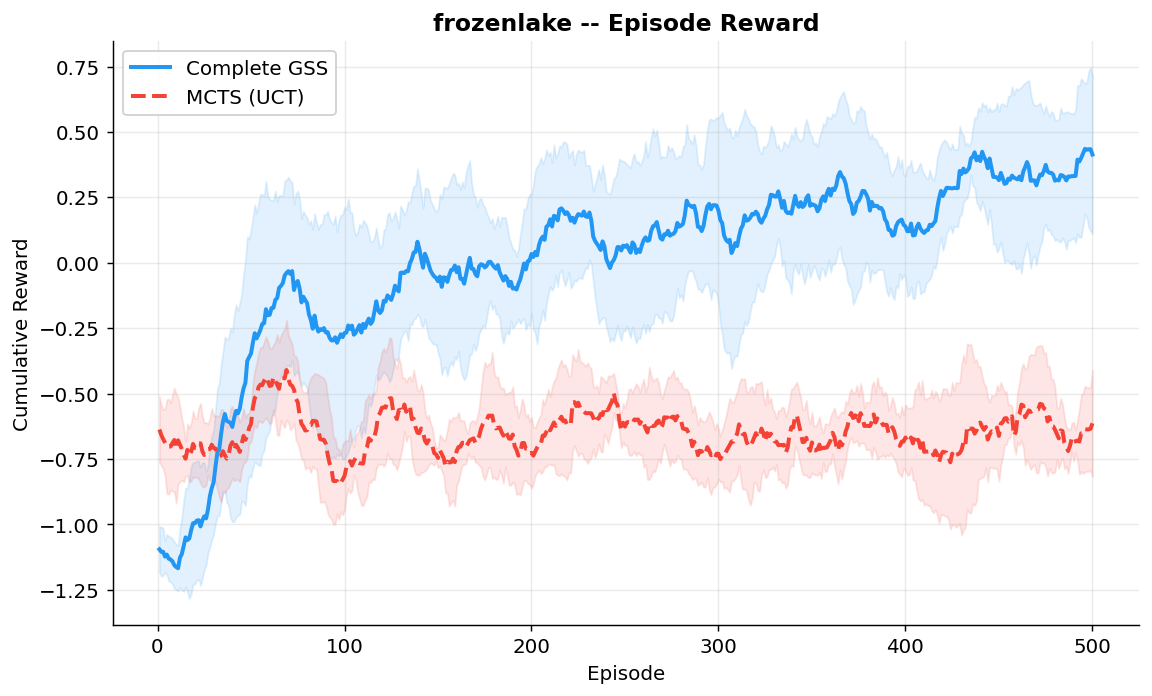
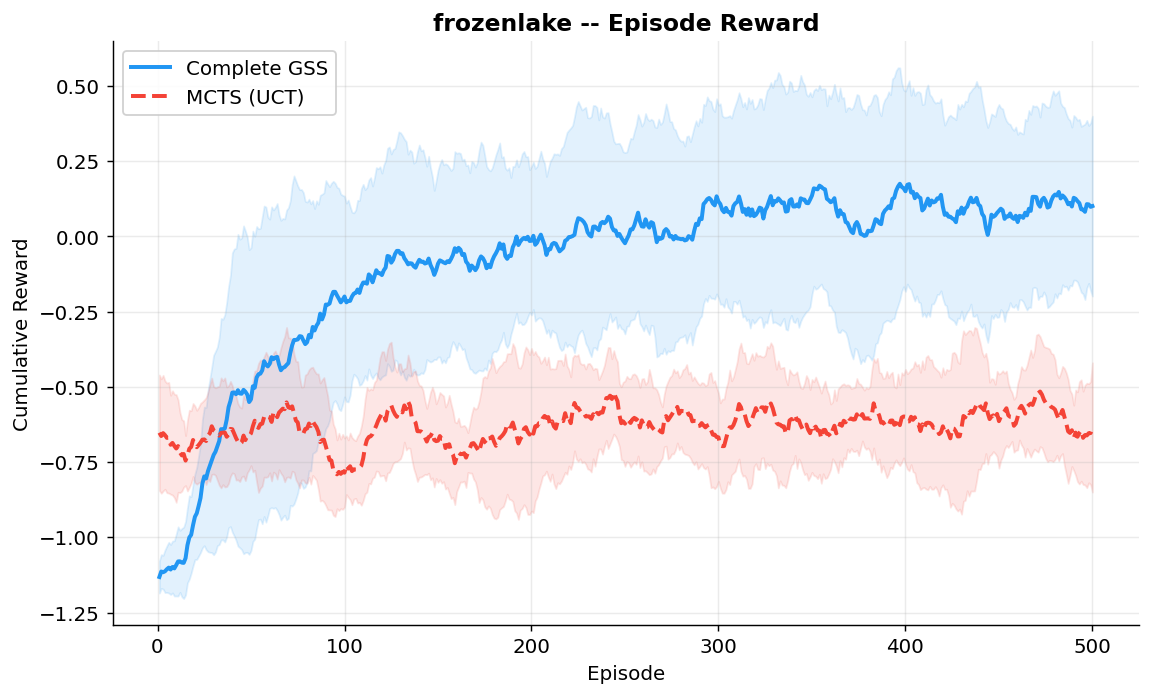
chore: update results - significant improve

diff --git a/docs/analysis.md b/docs/analysis.md
@@ -10,12 +10,12 @@ across 8 diverse environments.
 
 | Environment | GSS (mean reward) | MCTS (mean reward) | Winner |
 |---|---|---|---|
-| bandit | 0.942 | 0.383 | **GSS** |
+| bandit | 0.880 | 0.401 | **GSS** |
 | chain | 0.997 | 1.000 | **MCTS** |
-| cliff | -11.752 | -194.962 | **GSS** |
-| maze5 | 0.910 | 0.889 | **GSS** |
-| maze8 | 0.247 | 0.813 | **MCTS** |
-| frozenlake | 0.007 | -0.650 | **GSS** |
+| cliff | -15.873 | -195.285 | **GSS** |
+| maze5 | 0.897 | 0.889 | **GSS** |
+| maze8 | 0.207 | 0.814 | **MCTS** |
+| frozenlake | -0.091 | -0.631 | **GSS** |
 
 ### bandit
 
@@ -77,8 +77,8 @@ across 8 diverse environments.
 
 | Game | GSS Win Rate | MCTS Win Rate | Winner |
 |---|---|---|---|
-| nim | 0.417 | 0.970 | **MCTS** |
-| connect | 0.500 | 0.500 | **Tie** |
+| nim | 0.451 | 0.970 | **MCTS** |
+| connect | 0.651 | 0.978 | **MCTS** |
 
 ### nim
 
@@ -92,9 +92,9 @@ across 8 diverse environments.
 
 ![Ablation](../figures/ablation_maze5.png)
 
-- **gss**: final reward = 0.930
+- **gss**: final reward = 0.929
 - **gss_lite**: final reward = 0.930
-- **mcts**: final reward = 0.908
+- **mcts**: final reward = 0.902
 
 ## 5. Computation Cost
 
@@ -102,14 +102,14 @@ across 8 diverse environments.
 
 | Environment | GSS (s) | MCTS (s) |
 |---|---|---|
-| bandit | 0.24 | 0.05 |
-| chain | 0.48 | 0.95 |
-| cliff | 1.85 | 95.00 |
-| maze5 | 0.65 | 8.13 |
-| maze8 | 6.57 | 59.75 |
-| frozenlake | 3.10 | 2.08 |
-| nim | 0.13 | 0.28 |
-| connect | 0.13 | 0.11 |
+| bandit | 0.41 | 0.05 |
+| chain | 1.11 | 0.95 |
+| cliff | 9.19 | 93.34 |
+| maze5 | 2.70 | 7.95 |
+| maze8 | 31.65 | 58.70 |
+| frozenlake | 15.41 | 2.12 |
+| nim | 0.36 | 0.28 |
+| connect | 0.49 | 1.03 |
 
 ## 6. Discussion
 
